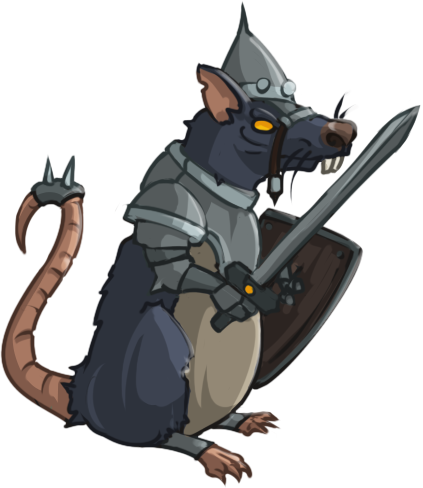
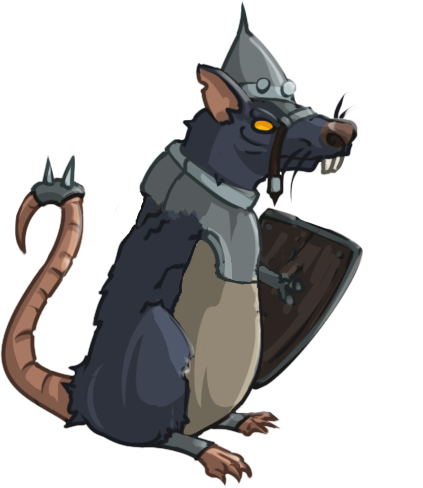
improve unit spines

Changed region(s): [[0.2766, 0.2152, 1.0, 0.6762]]

diff --git a/src/game/battle/entities/unit.rs b/src/game/battle/entities/unit.rs
@@ -19,10 +19,12 @@ use crate::{
 const UNIT_SCALE: f32 = 0.7;
 const UNIT_TRACK_WALK: usize = 0;
 const UNIT_TRACK_ATTACK: usize = 1;
+const UNIT_TRACK_COLOR: usize = 2;
 
 #[derive(Clone, Debug, Eq, Hash, PartialEq, SystemSet)]
 pub enum UnitSystem {
     Spawn,
+    SpineReady,
     Slow,
     DamageFx,
     Update,
@@ -47,6 +49,11 @@ impl Plugin for UnitPlugin {
                     .in_set(SpawnSet)
                     .in_set(SpineSpawnSet)
                     .after(EventSet::<UnitSpawnEvent>::Sender),
+            )
+            .add_system(
+                unit_spine_ready
+                    .in_set(UnitSystem::SpineReady)
+                    .in_set(SpineSet::OnReady),
             )
             .add_system(
                 unit_slow
@@ -311,7 +318,7 @@ impl Attack {
                 hit_count: 5,
                 hurt_box_kind: AttackHurtBoxKind::OffsetRect {
                     offset: 150.,
-                    size: Vec2::new(200., 150.),
+                    size: Vec2::new(150., 150.),
                 },
             },
             Attack::Arrow => AttackStats {
@@ -437,10 +444,16 @@ fn unit_spawn(
             stats.speed *= 0.5;
             stats.speed_slow *= 0.5;
         }
+        let mut crossfades = Crossfades::new();
+        crossfades.add("idle", "walk", 0.2);
+        crossfades.add("walk", "idle", 0.2);
+        crossfades.add("attack", "attack_stop", 0.2);
+        crossfades.add("attack_stop", "attack", 0.2);
         commands
             .spawn((
                 SpineBundle {
                     skeleton: spawn_event.kind.skeleton(asset_library.as_ref()),
+                    crossfades,
                     ..Default::default()
                 },
                 Transform2::from_translation(spawn_event.position).with_scale(Vec2::new(
@@ -456,7 +469,7 @@ fn unit_spawn(
                 HitBox {
                     flags: team.hit_flags(),
                     shape: CollisionShape::Rect {
-                        offset: Vec2::ZERO,
+                        offset: Vec2::new(0., stats.hit_box_size.y * 0.25),
                         size: stats.hit_box_size,
                     },
                     defense: if team_modifiers[BattleModifier::ExtraDefense] {
@@ -542,6 +555,37 @@ fn unit_spawn(
                     UnitFire,
                 ));
             });
+    }
+}
+
+fn unit_spine_ready(
+    mut spine_ready_events: EventReader<SpineReadyEvent>,
+    mut spine_query: Query<(&mut Spine, &Unit)>,
+    battle_state: Res<BattleState>,
+) {
+    for spine_ready_event in spine_ready_events.iter() {
+        if let Ok((mut spine, unit)) = spine_query.get_mut(spine_ready_event.entity) {
+            let modifiers = battle_state.get_modifiers(unit.team);
+            if modifiers[BattleModifier::Fire] {
+                let _ = spine.animation_state.set_animation_by_name(
+                    UNIT_TRACK_COLOR as i32,
+                    "fire",
+                    true,
+                );
+            } else if modifiers[BattleModifier::Wet] {
+                let _ = spine.animation_state.set_animation_by_name(
+                    UNIT_TRACK_COLOR as i32,
+                    "wet",
+                    true,
+                );
+            } else if modifiers[BattleModifier::Ice] {
+                let _ = spine.animation_state.set_animation_by_name(
+                    UNIT_TRACK_COLOR as i32,
+                    "ice",
+                    true,
+                );
+            }
+        }
     }
 }
 
@@ -666,7 +710,7 @@ fn unit_attack(
                                 HurtBox {
                                     flags: hurt_flags,
                                     shape: CollisionShape::Rect {
-                                        offset: Vec2::ZERO,
+                                        offset: Vec2::new(0., hurt_box_size.y * 0.25),
                                         size: hurt_box_size,
                                     },
                                     damage: attack_stats.damage * damage_multiplier,
@@ -740,7 +784,7 @@ fn unit_attack(
                                     ..Default::default()
                                 },
                                 Transform2::from_translation(
-                                    unit_transform.translation().truncate(),
+                                    unit_transform.translation().truncate() + Vec2::new(0., 90.),
                                 ),
                                 Projectile {
                                     velocity: Vec2::new(unit.move_direction() * 2500., 300.),
@@ -807,39 +851,42 @@ fn unit_update_animations(
 ) {
     let mut rng = thread_rng();
     for (mut unit_spine, unit, unit_feeler) in unit_query.iter_mut() {
+        let current_animation_name = unit_spine
+            .animation_state
+            .track_at_index(UNIT_TRACK_WALK)
+            .map(|track| track.animation().name().to_owned())
+            .unwrap_or(String::new());
         if battle_state.phase() != BattlePhase::PreBattle {
-            if unit_spine
-                .animation_state
-                .track_at_index(UNIT_TRACK_WALK)
-                .is_none()
-            {
+            if current_animation_name != "walk" {
                 if let Ok(mut track) = unit_spine.animation_state.set_animation_by_name(
                     UNIT_TRACK_WALK as i32,
-                    "animation",
+                    "walk",
                     true,
                 ) {
                     track.set_timescale(rng.gen_range(0.9..1.1));
                 }
             }
         } else {
-            if unit_spine
-                .animation_state
-                .track_at_index(UNIT_TRACK_WALK)
-                .is_some()
-            {
-                unit_spine
-                    .animation_state
-                    .clear_track(UNIT_TRACK_WALK as i32);
+            if current_animation_name != "idle" {
+                if let Ok(mut track) = unit_spine.animation_state.set_animation_by_name(
+                    UNIT_TRACK_WALK as i32,
+                    "idle",
+                    true,
+                ) {
+                    track.set_track_time(rng.gen_range(0.0..1.0));
+                    track.set_timescale(rng.gen_range(0.9..1.1));
+                }
             }
         }
+        let current_animation_name = unit_spine
+            .animation_state
+            .track_at_index(UNIT_TRACK_ATTACK)
+            .map(|track| track.animation().name().to_owned())
+            .unwrap_or(String::new());
         if (unit.can_attack() && unit_feeler.feeling || unit.blind)
             && battle_state.phase() == BattlePhase::Battling
         {
-            if unit_spine
-                .animation_state
-                .track_at_index(UNIT_TRACK_ATTACK)
-                .is_none()
-            {
+            if current_animation_name != "attack" {
                 if let Ok(mut track) = unit_spine.animation_state.set_animation_by_name(
                     UNIT_TRACK_ATTACK as i32,
                     "attack",
@@ -858,14 +905,12 @@ fn unit_update_animations(
                 }
             }
         } else {
-            if unit_spine
-                .animation_state
-                .track_at_index(UNIT_TRACK_ATTACK)
-                .is_some()
-            {
-                unit_spine
-                    .animation_state
-                    .clear_track(UNIT_TRACK_ATTACK as i32);
+            if current_animation_name != "attack_stop" {
+                let _ = unit_spine.animation_state.set_animation_by_name(
+                    UNIT_TRACK_ATTACK as i32,
+                    "attack_stop",
+                    true,
+                );
             }
         }
     }

diff --git a/src/asset_library.rs b/src/asset_library.rs
@@ -117,8 +117,8 @@ fn asset_library_load(
     ));
 
     asset_library.spine_rat = skeletons.add(SkeletonData::new_from_binary(
-        asset_server.load("spines/rat_test/skeleton.skel"),
-        asset_server.load("spines/rat_test/rat_test.atlas"),
+        asset_server.load("spines/rat_peasant/skeleton.skel"),
+        asset_server.load("spines/rat_peasant/rat_peasant.atlas"),
     ));
 
     asset_library.spine_rat_warrior = skeletons.add(SkeletonData::new_from_binary(

diff --git a/src/game/battle/battle.rs b/src/game/battle/battle.rs
@@ -284,8 +284,8 @@ fn battle_start(
         }
 
         const X_DISTANCE: f32 = 400.;
-        const Y_MIN: f32 = -300.;
-        const Y_MAX: f32 = -100.;
+        const Y_MIN: f32 = -400.;
+        const Y_MAX: f32 = -200.;
         let mut rng = thread_rng();
         for team in Team::iter() {
             let units = start_event.config.get_units(team);

diff --git a/src/game/sandbox/sandbox.rs b/src/game/sandbox/sandbox.rs
@@ -68,7 +68,7 @@ fn sandbox_fixed_update(
     if example_state.start_battle {
         battle_start_events.send(BattleStartEvent {
             config: example_state.battle_config.clone(),
-            sandbox: true,
+            sandbox: false,
         });
         example_state.start_battle = false;
     }
